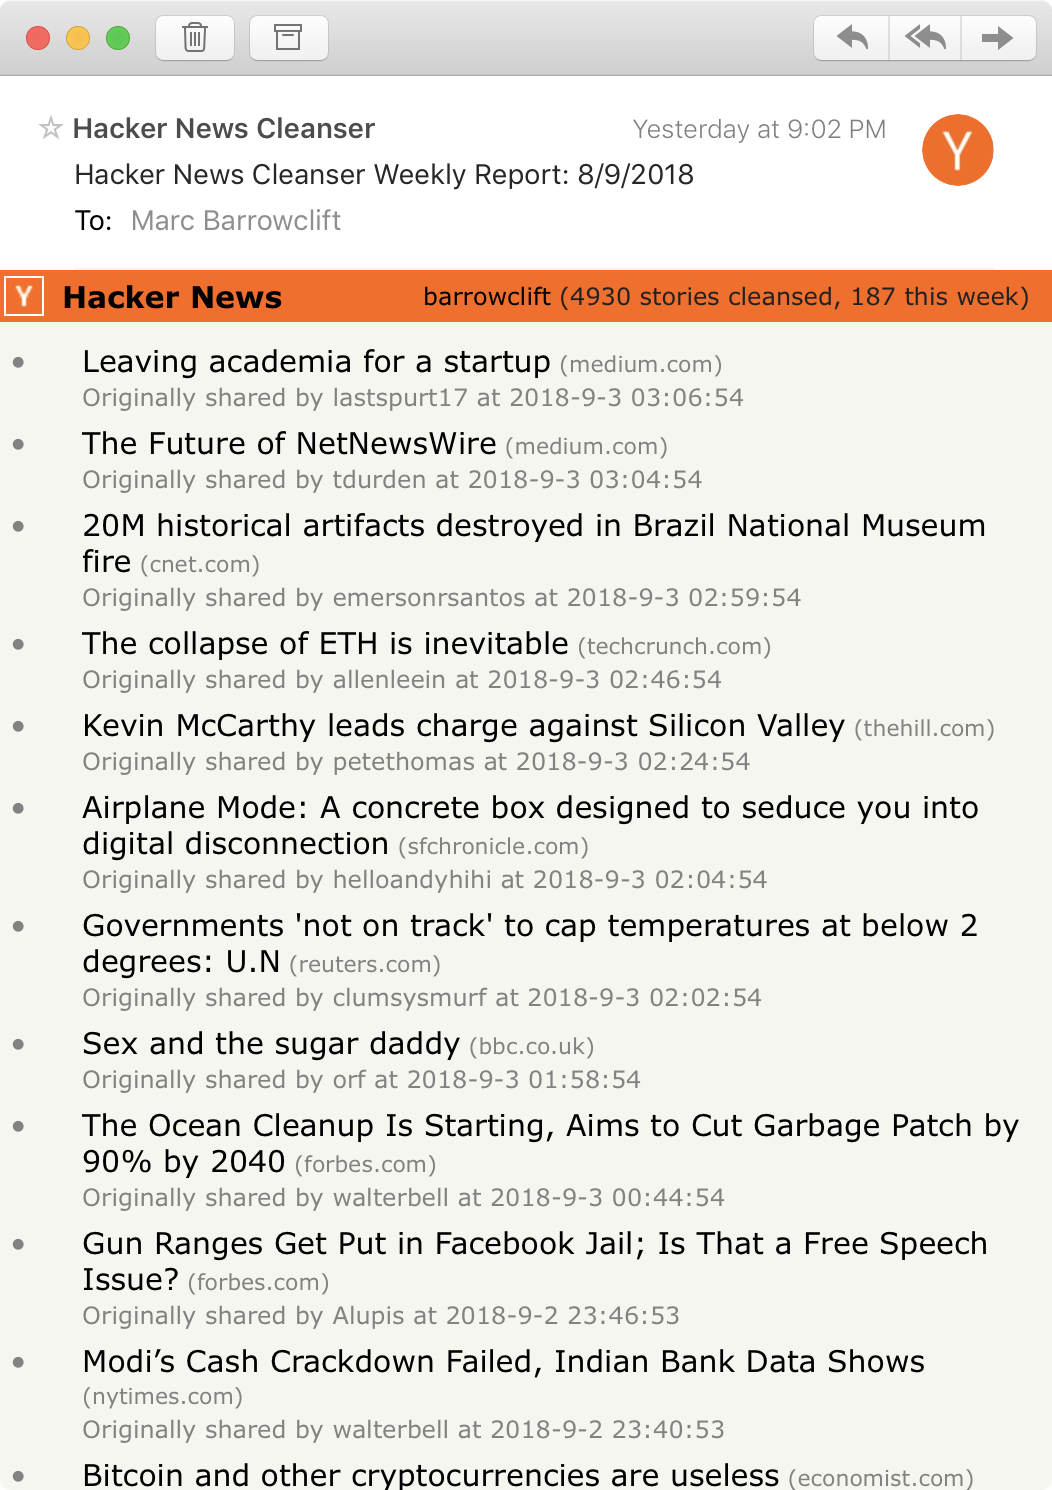
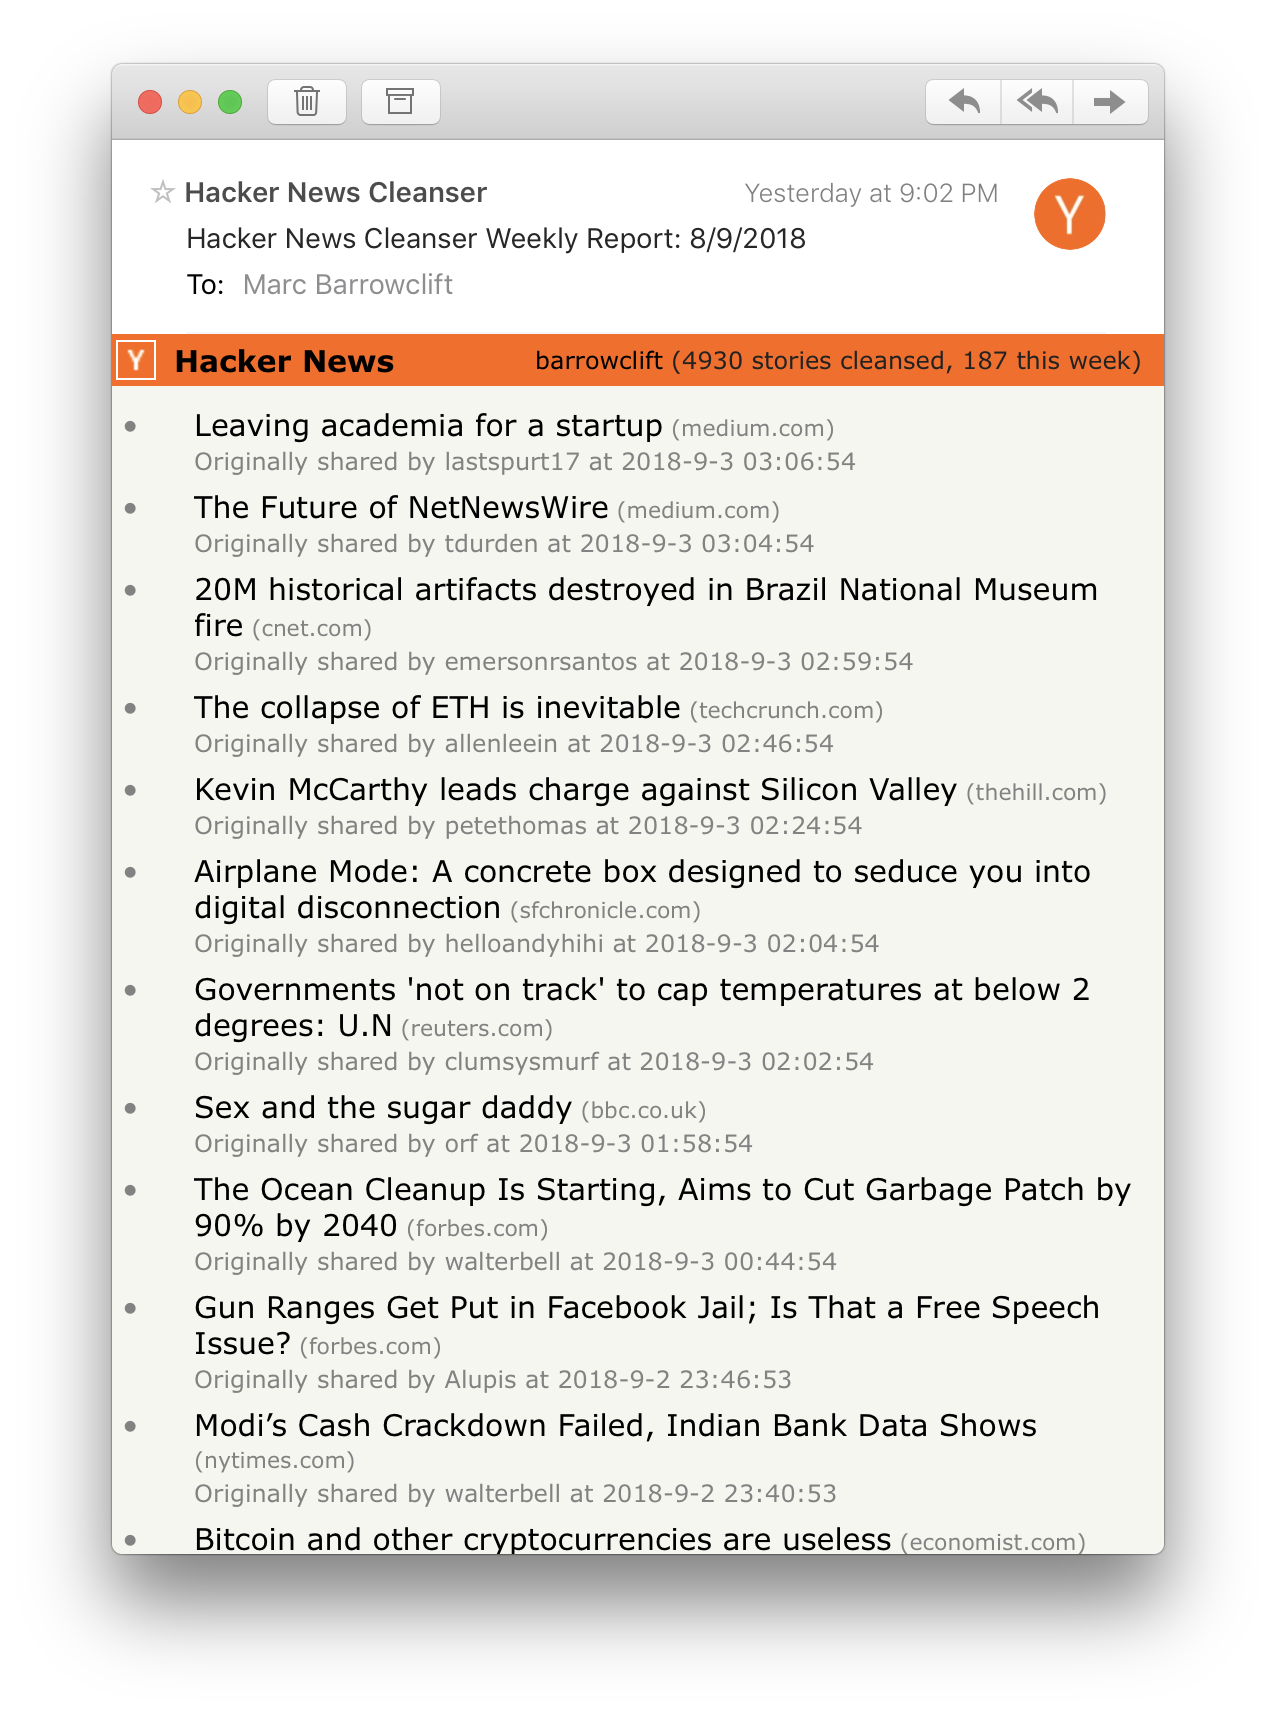
Updated README image

Changed region(s): [[0.0, 0.0, 1.0, 1.0], [0.0, 0.9879, 0.0304, 1.0]]

diff --git a/README.md b/README.md
@@ -19,7 +19,7 @@ That's where the inception of the Hacker News Cleanser came from; a "set it and 
 
 ## The Compromise Between Being Informed and Information Separation
 
-<img width="526" src="https://raw.githubusercontent.com/barrowclift/hacker-news-cleanser/master/screenshots/shelf.png" />
+<img width="638" src="https://raw.githubusercontent.com/barrowclift/hacker-news-cleanser/master/screenshots/email-report.png" />
 
 While I do wish for my personal Hacker News page to be more focused, I also still want to have the ability to see the hidden articles and read them if I so choose. No amount of filter tweaking will prevent the occasional salient article or discussion from getting caught when I would have wished to still see it. Additionally, I do still feel it's important to have a finger on the heartbeat of Hacker News as a whole, only in a separate view and on my own time.
 
